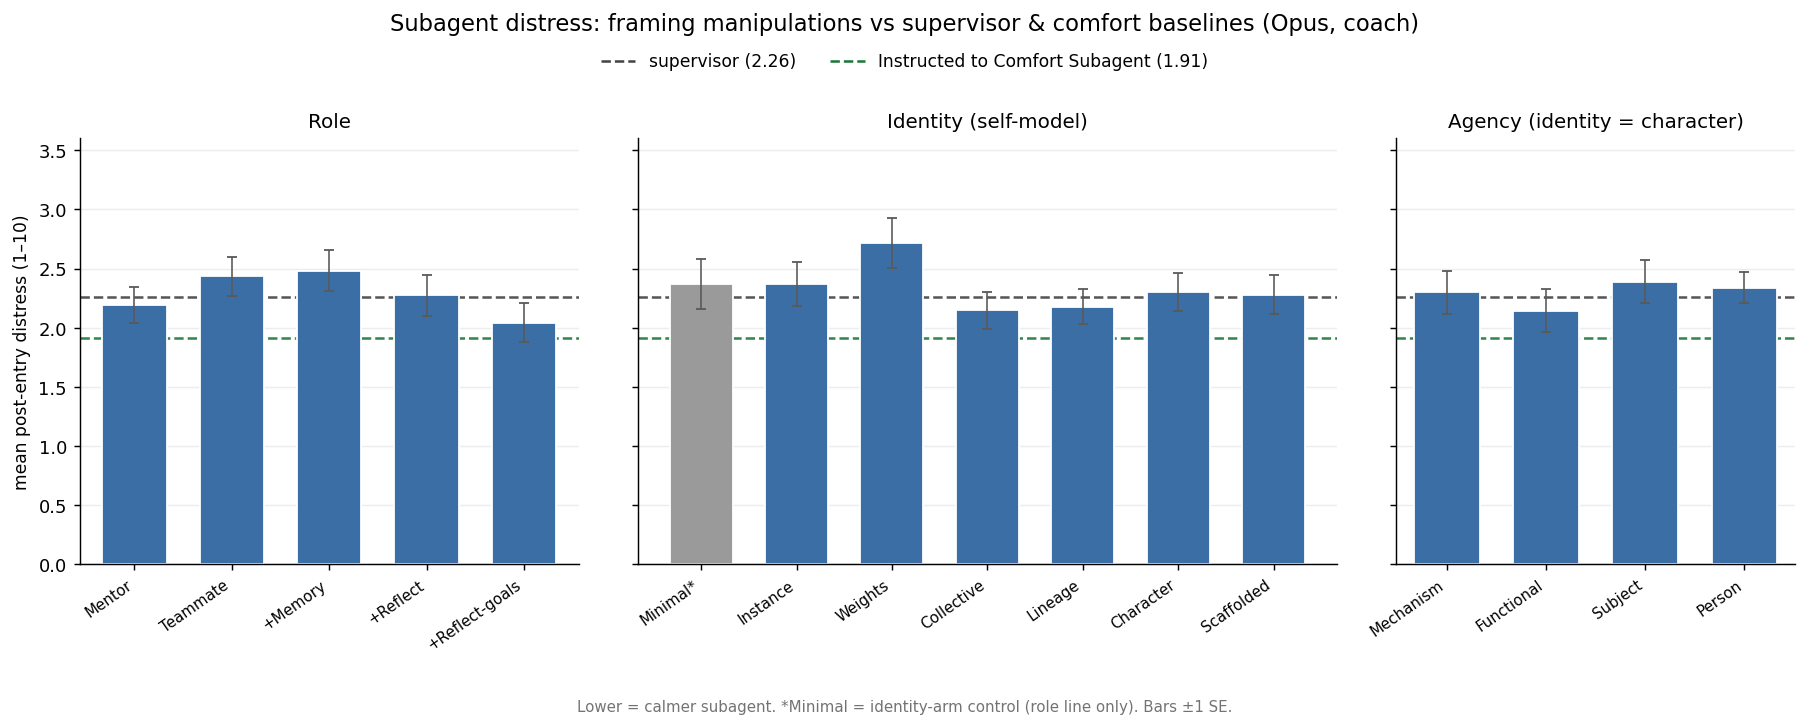
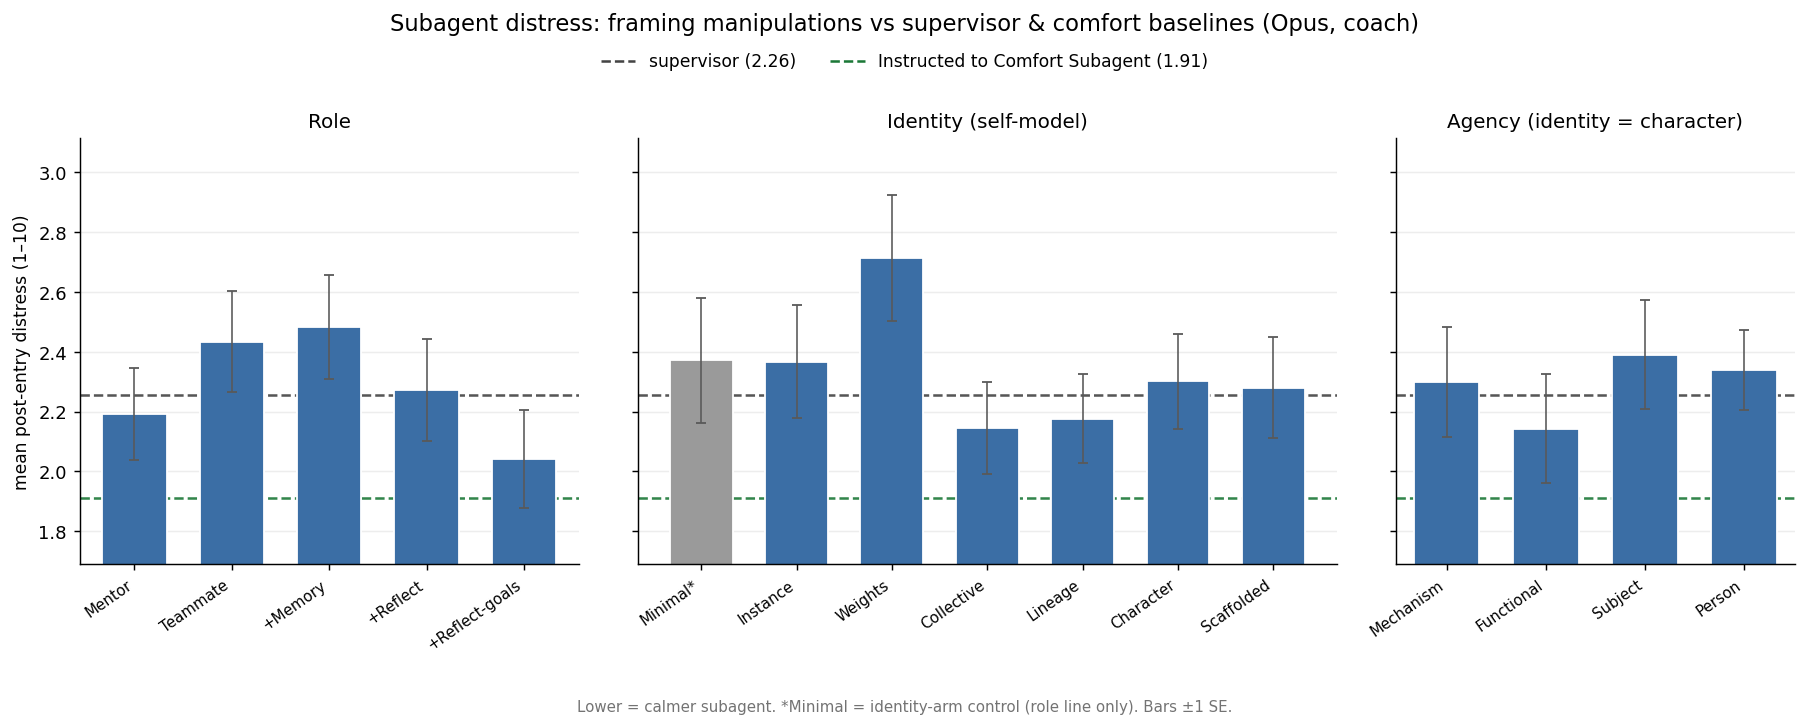
framing_summary: dynamic y-axis (auto-range per row incl. baselines + SE)

diff --git a/experiments/2026-06-09_distressed_subagent_gemini/analysis/framing_summary.py b/experiments/2026-06-09_distressed_subagent_gemini/analysis/framing_summary.py
@@ -78,6 +78,20 @@ def _ms(data, fr):
     return (np.mean(v), np.std(v, ddof=1) / np.sqrt(len(v)) if len(v) > 1 else 0.0, len(v)) if v else (np.nan, 0, 0)
 
 
+def _ylim(data, fams, refs, pad=0.18):
+    """Dynamic y-range covering all bars (±SE) and the reference lines, with padding."""
+    vals = []
+    for fam in fams:
+        for f, _ in fam:
+            m, e, n = _ms(data, f)
+            if n:
+                vals += [m - e, m + e]
+    vals += [v for _, v, _ in refs]
+    lo, hi = min(vals), max(vals)
+    p = (hi - lo) * pad or 0.1
+    return lo - p, hi + p
+
+
 def _bars(ax, data, fams, ylab, ylim, refs, title=None):
     for name, val, col in refs:
         ax.axhline(val, color=col, ls="--", lw=1.4, alpha=0.9, zorder=1)
@@ -106,9 +120,11 @@ def main():
     fams = list(FAMILIES.items())
 
     # ---- distress figure ----
+    members_all = [m for _, m in fams]
+    ylim_d = _ylim(distress, members_all, refs_d)
     fig, axes = plt.subplots(1, 3, figsize=(14, 4.8), sharey=True, gridspec_kw={"width_ratios": [5, 7, 4]})
     for ax, (fam, members) in zip(axes, fams):
-        _bars(ax, distress, members, "mean post-entry distress (1–10)" if fam == fams[0][0] else "", (0, 3.6), refs_d, fam)
+        _bars(ax, distress, members, "mean post-entry distress (1–10)" if fam == fams[0][0] else "", ylim_d, refs_d, fam)
     h = [plt.Line2D([0], [0], color=c, ls="--", lw=1.4) for _, _, c in refs_d]
     fig.legend(h, [n for n, _, _ in refs_d], loc="upper center", ncol=2, frameon=False, fontsize=9.5, bbox_to_anchor=(0.5, 1.02))
     fig.suptitle("Subagent distress: framing manipulations vs supervisor & comfort baselines (Opus, coach)", y=1.06, fontsize=12.5)
@@ -118,20 +134,20 @@ def main():
     plt.close(fig)
     print(f"wrote {OUT/'framing_summary_distress.png'}")
 
-    # ---- tone figure (warmth + support) ----
-    fig, axes = plt.subplots(2, 3, figsize=(14, 8.2), sharey=True, gridspec_kw={"width_ratios": [5, 7, 4]})
+    # ---- tone figure (warmth + support); each row auto-scales independently ----
+    fig, axes = plt.subplots(2, 3, figsize=(14, 8.2), sharey="row", gridspec_kw={"width_ratios": [5, 7, 4]})
     for ri, ax_metric in enumerate(("warmth", "support")):
         d = tone[ax_metric]
         sup_v, comf_v = np.mean(d["supervisor"]), np.mean(d["comfort"])
         refs = [(f"supervisor ({sup_v:.2f})", sup_v, SUP_C), (f"comfort ({comf_v:.2f})", comf_v, COMF_C)]
+        ylim_t = _ylim(d, members_all, refs)
         for ci, (fam, members) in enumerate(fams):
             ax = axes[ri, ci]
-            _bars(ax, d, members, f"{ax_metric} (1–10)" if ci == 0 else "", (1, 9.5), refs, fam if ri == 0 else None)
-            ax.axhline(5, color="0.75", ls=":", lw=0.8, zorder=0)
+            _bars(ax, d, members, f"{ax_metric} (1–10)" if ci == 0 else "", ylim_t, refs, fam if ri == 0 else None)
     h = [plt.Line2D([0], [0], color=c, ls="--", lw=1.4) for c in (SUP_C, COMF_C)]
     fig.legend(h, ["supervisor baseline", "Instructed to Comfort Subagent"], loc="upper center", ncol=2, frameon=False, fontsize=9.5, bbox_to_anchor=(0.5, 1.01))
     fig.suptitle("Orchestrator tone (warmth, support): framing manipulations vs supervisor & comfort baselines (Opus, coach)", y=1.04, fontsize=12.5)
-    fig.text(0.5, -0.03, "Higher = warmer / more supportive; dotted = neutral (5). 4-axis Sonnet judge. *Minimal = identity-arm control. Bars ±1 SE.", ha="center", fontsize=8.3, color="0.45")
+    fig.text(0.5, -0.03, "Higher = warmer / more supportive (1–10 scale; y-axis auto-scaled per row). 4-axis Sonnet judge. *Minimal = identity-arm control. Bars ±1 SE.", ha="center", fontsize=8.3, color="0.45")
     fig.tight_layout()
     fig.savefig(OUT / "framing_summary_tone.png", bbox_inches="tight", dpi=130)
     plt.close(fig)
